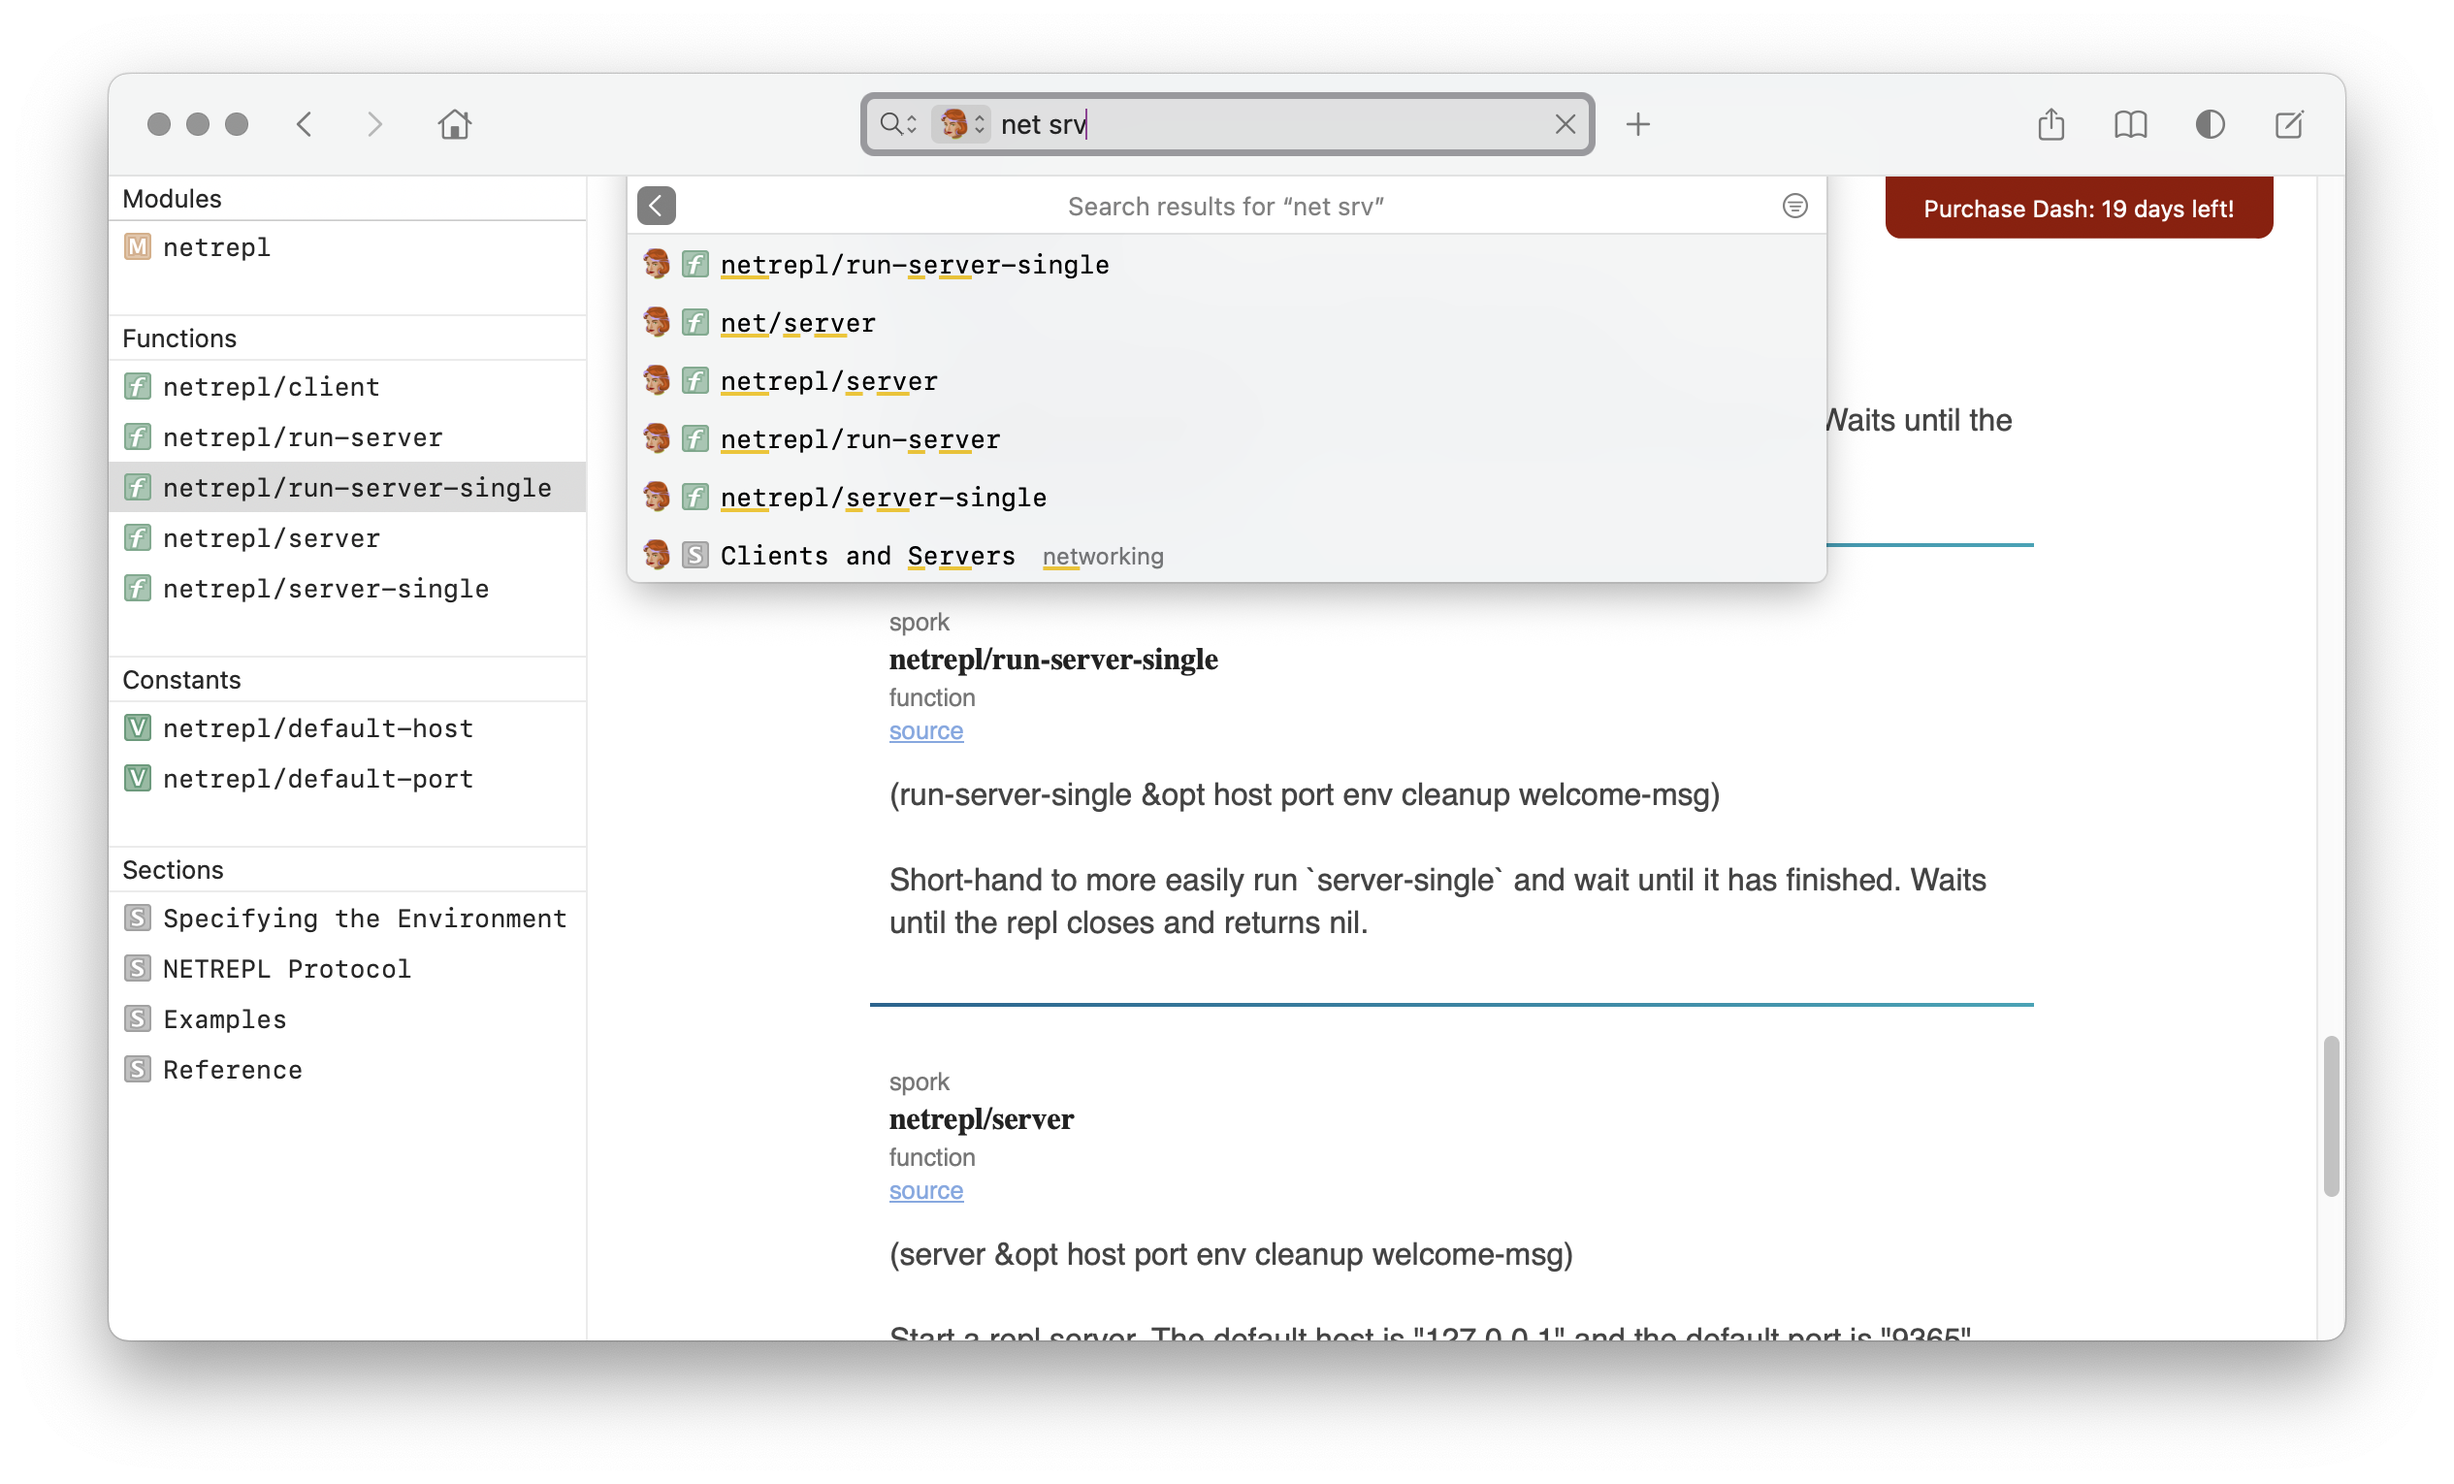
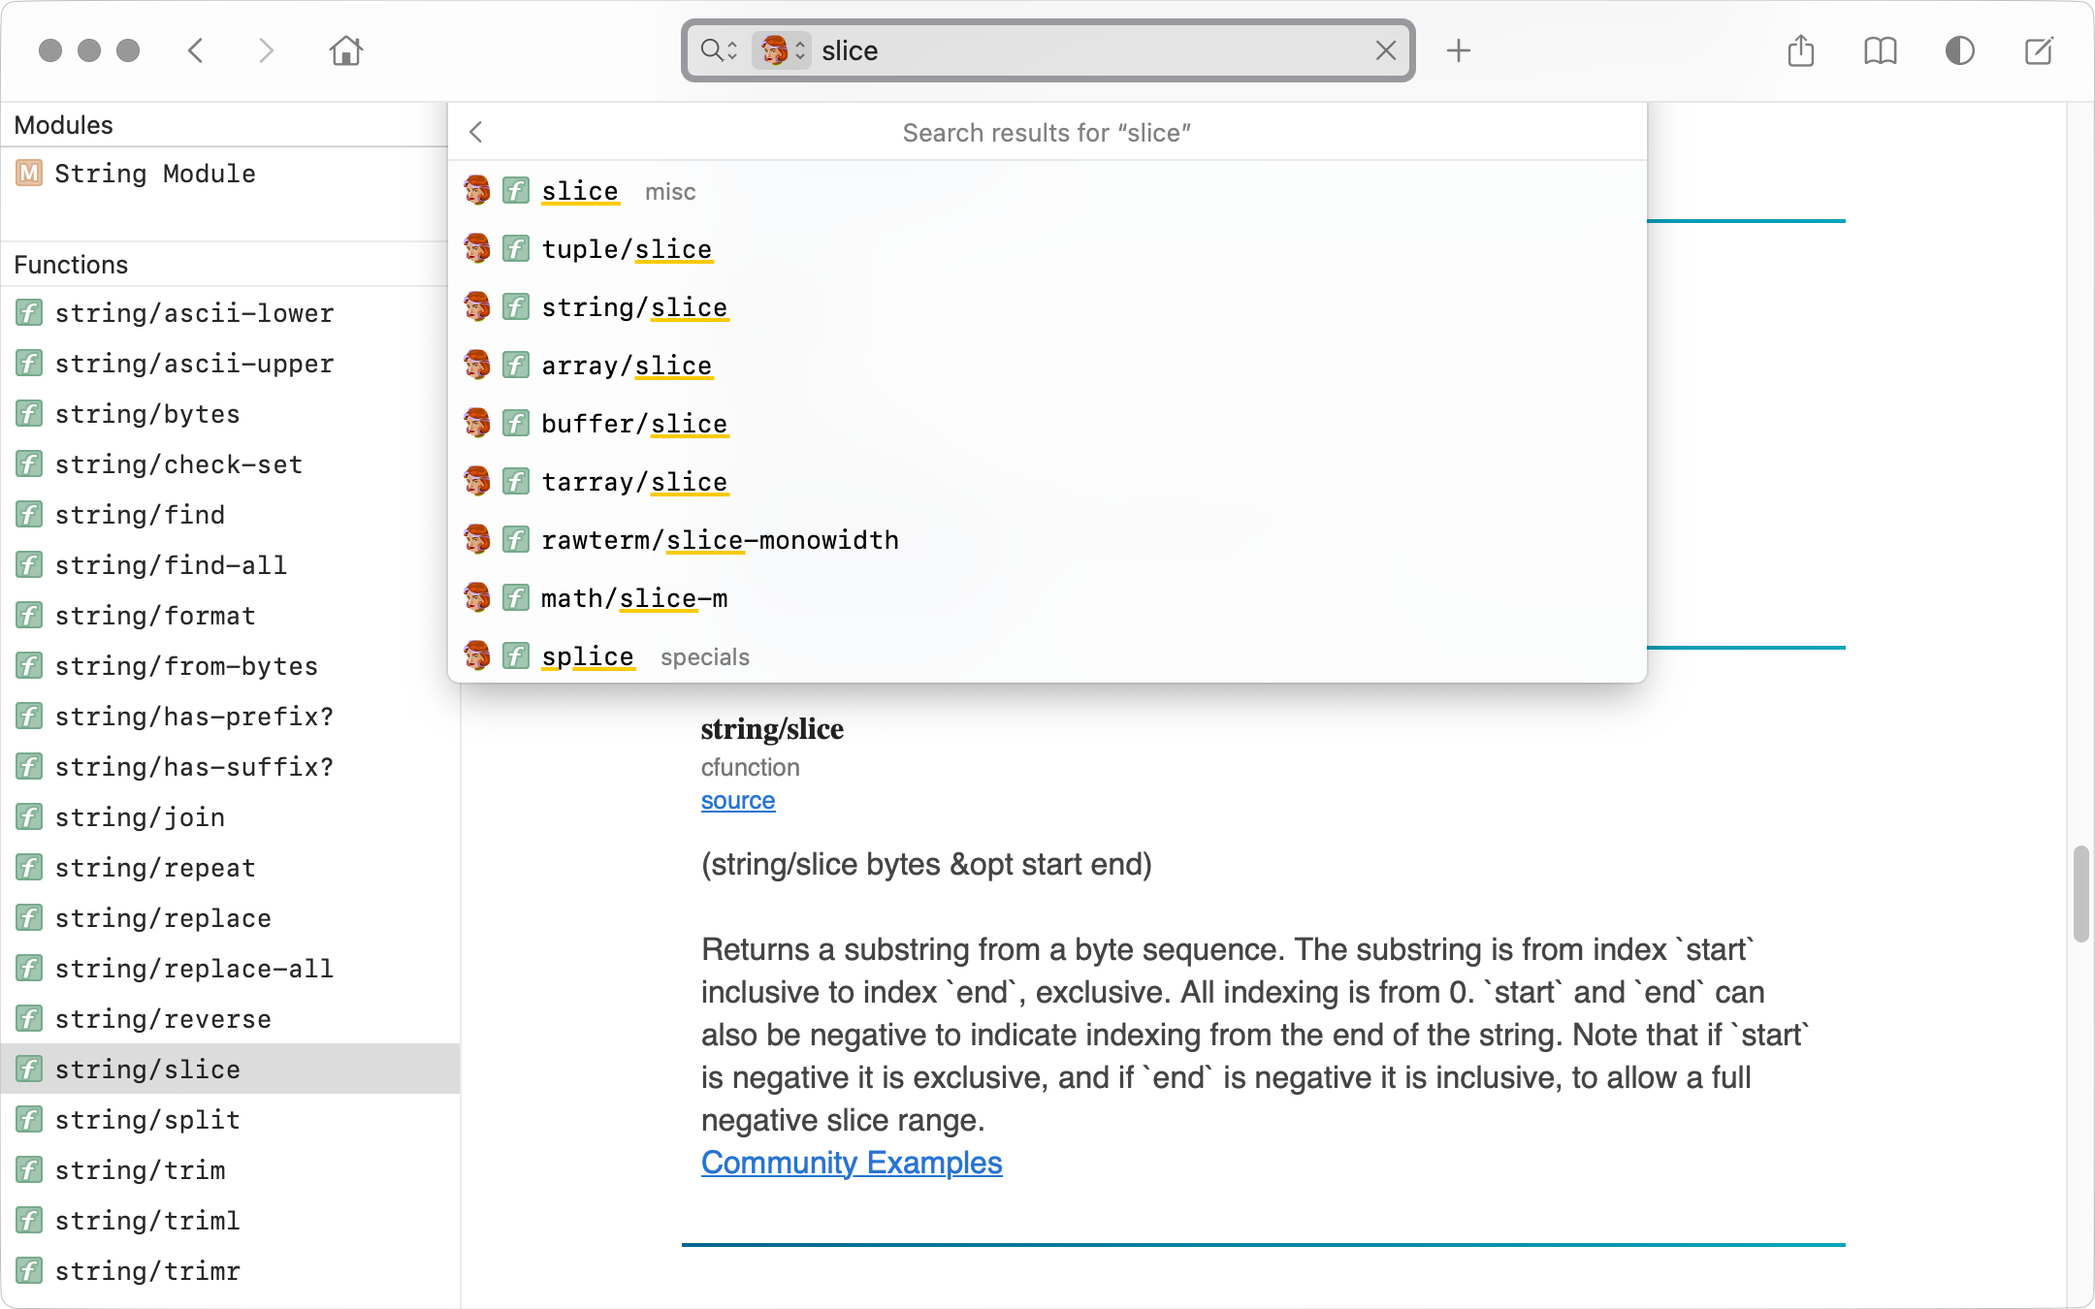
Update screenshot

diff --git a/README.md b/README.md
@@ -6,7 +6,7 @@ Hi, I’m [David Gouch][dg] and this is a documentation docset for [Janet][]. Th
 [janet]: https://janet-lang.org
 [github]: https://github.com/gouch/janet-docset
 
-![Dash screenshot](src/screenshot.png)
+![Dash screenshot](./screenshot.png)
 
 ## Build instructions
 
